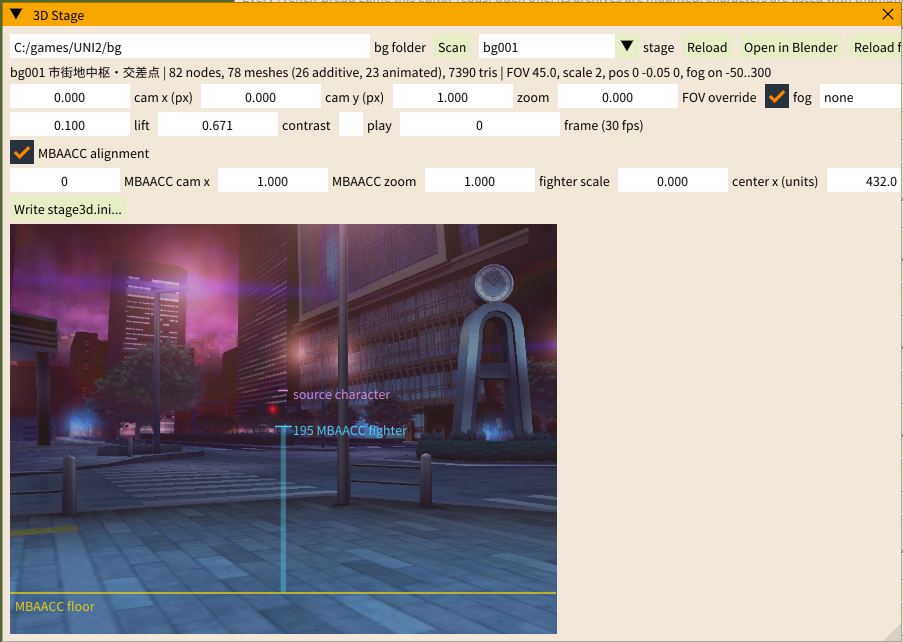
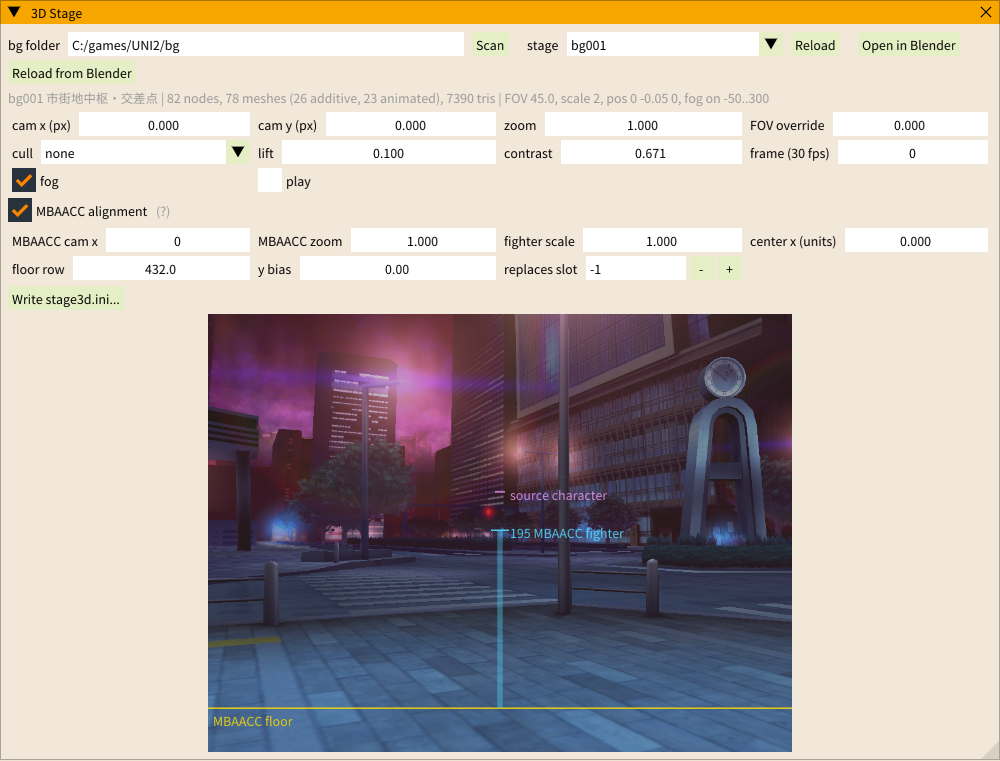
ui: layout sweep before/after sheets; 3D Stage showcase shots re-taken with the new form grid

diff --git a/tools/ui/shots_layout/make_sheets.py b/tools/ui/shots_layout/make_sheets.py
@@ -1,0 +1,18 @@
+#!/usr/bin/env python3
+# make_sheets.py <out_dir> : before | after sheets (shrunk, palette PNG) from run_layout.sh's before / after folders
+import sys, os
+from PIL import Image, ImageDraw
+W = '/mnt/c/dev/hantei-chan/work'; out = sys.argv[1]; os.makedirs(out, exist_ok=True)
+for sz in ['1280x720', '1900x1000', '1920x1080']:
+    b, a = f'{W}/ab_layout_before_{sz}', f'{W}/ab_layout_after_{sz}'
+    for n in sorted(os.listdir(a)):
+        if not n.startswith('L') or not n.endswith('.png') or not os.path.exists(f'{b}/{n}'): continue
+        if n.startswith('L02') or n.startswith('L04') or n.startswith('L06') or n.startswith('L08'):
+            if sz != '1280x720': continue   # panes without a layout change: one size is enough
+        ib, ia = Image.open(f'{b}/{n}').convert('RGB'), Image.open(f'{a}/{n}').convert('RGB')
+        h = max(ib.height, ia.height) + 28; s = Image.new('RGB', (ib.width + ia.width + 12, h), (40, 40, 40))
+        s.paste(ib, (0, 28)); s.paste(ia, (ib.width + 12, 28)); d = ImageDraw.Draw(s)
+        d.text((8, 6), f'BEFORE  {n[:-4]}  {sz}', fill=(255, 200, 120)); d.text((ib.width + 20, 6), 'AFTER', fill=(140, 255, 140))
+        s = s.resize((1600, round(s.height * 1600 / s.width)), Image.LANCZOS)
+        p = f'{out}/{n[:-4]}_{sz}.png'
+        s.quantize(colors=256, method=Image.Quantize.MEDIANCUT, dither=Image.Dither.NONE).save(p, optimize=True); print(p)

diff --git a/docs/showcase_2026-10-16/scripts/ui/crop_features.py b/docs/showcase_2026-10-16/scripts/ui/crop_features.py
@@ -7,8 +7,8 @@ from PIL import Image
 BOXES = {   # name: (left, top, right, bottom); the squirrel hover box also covers the tooltip, the game link box the sprite
     'feat_squirrel_hover': (58, 58, 1130, 756),
     'feat_squirrel_problems': (58, 58, 1060, 756),
-    'feat_stage3d_uni2_align': (58, 58, 961, 700),
-    'feat_stage3d_mbtl_align': (58, 58, 961, 700),
+    'feat_stage3d_uni2_align': (442, 100, 1442, 861),
+    'feat_stage3d_mbtl_align': (442, 100, 1442, 861),
     'feat_cgm_uni2_palettes': (58, 58, 1261, 880),
     'feat_cgm_uni2_textures': (58, 58, 1261, 880),
     'feat_gamelink_panel': (60, 58, 1100, 700),
